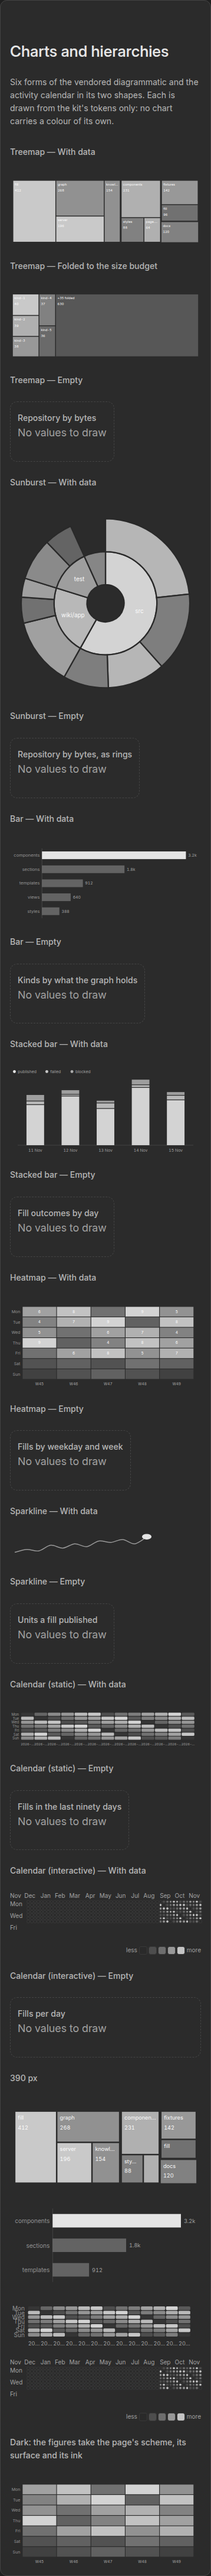
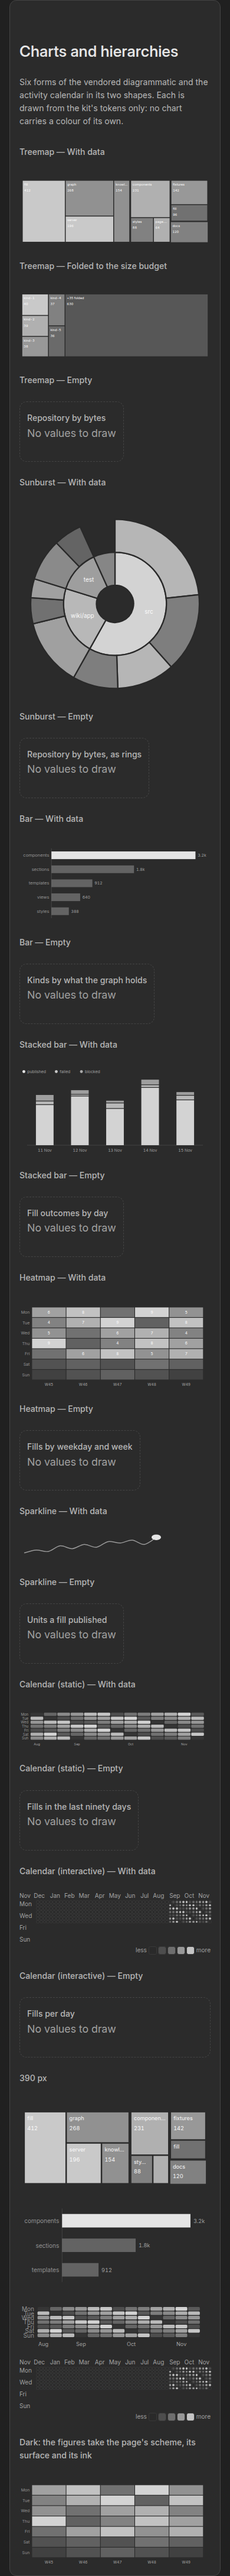
fix(kit): the calendar's months are short names, never cut
The static calendar printed the week's ISO date above each column, and a
column is about twenty pixels wide: every label was cut to «2026-…»
(madarch-64o5.82, item 1).

The matrix now names the month only on the column where the month turns, in
the reader's language, and reports it short: 'Aug' … in English, 'авг' … in
Russian. A name the narrowest column cannot hold at 11 px falls to its first
three letters, so no column is ever asked for more than it has; the weekdays
are the reader's too ('Mon' … / 'пн' …).

Checked on the rendered page in both languages and schemes at 1440 and 390:
no calendar text carries an ellipsis, and the labels read 'Mon Tue … Sun / Aug
Sep Oct Nov' and 'пн вт … вс / авг сен окт ноя'. The shots of the charts
section are retaken with the fix.

Task: madarch-64o5.82

diff --git a/wiki/app/src/components/ui/charts.tsx b/wiki/app/src/components/ui/charts.tsx
@@ -12,7 +12,9 @@
  * frame, so a page never decides what a figure without data looks like.
  */
 import type { ReactElement } from 'react';
+import { useTranslation } from 'react-i18next';
 import * as HeatGraph from 'heat-graph';
+import { textWidth } from '../../../../../vendor/diagrammatic/src/core/text.js';
 import { Bar } from '../../../../../vendor/diagrammatic/src/react/charts/bar.js';
 import { Heatmap } from '../../../../../vendor/diagrammatic/src/react/charts/heatmap.js';
 import { Sparkline } from '../../../../../vendor/diagrammatic/src/react/charts/sparkline.js';
@@ -89,7 +91,10 @@ export function ChartSparkline({ title, values, note = 'No values to draw', ...s
  * reacts to a pointer; the interactive calendar is `ActivityCalendar`.
  */
 export function ChartCalendar({ title, days, note = 'No activity to draw', ...size }: Size & { readonly title: string; readonly days: readonly ChartDay[]; readonly note?: string }): ReactElement {
-  const matrix = calendarMatrix(days);
+  // The month names are the reader's, from the page's language: a week column that starts a month carries that
+  // month's short name and the others carry none, so no column is asked to hold more than it can.
+  const { i18n } = useTranslation();
+  const matrix = calendarMatrix(days, i18n.language);
   if (matrix === undefined) return <ChartEmpty title={title} note={note} />;
   return <Heatmap title={title} matrix={matrix} mark="calendar" values={false} {...size} />;
 }
@@ -104,7 +109,10 @@ export function ChartCalendar({ title, days, note = 'No activity to draw', ...si
  * beside the picture draws them itself (`ChartHeatmap`, or a table).
  */
 export function ActivityCalendar({ title, days, note = 'No activity to draw' }: { readonly title: string; readonly days: readonly ChartDay[]; readonly note?: string }): ReactElement {
+  const { i18n } = useTranslation();
   if (days.length === 0) return <ChartEmpty title={title} note={note} />;
+  // Monday, Wednesday and Friday name the rows; the rest would crowd a phone's calendar.
+  const dayNames = [0, 1, 2, 3, 4, 5, 6].map((day) => (day % 2 === 0 ? weekdayShort(day, i18n.language) : ''));
   const total = days.reduce((sum, day) => sum + day.count, 0);
   const dates = [...days.map((day) => day.date.slice(0, 10))].sort();
   return <div className="max-w-2xl" data-testid="activity-calendar" role="img" aria-label={`${title}: ${String(total)} in ${String(days.length)} days, ${dates[0] ?? ''} to ${dates[dates.length - 1] ?? ''}`}>
@@ -116,7 +124,7 @@ export function ActivityCalendar({ title, days, note = 'No activity to draw' }: 
       </div>
       <div className="flex items-start gap-1.5">
         <div className="grid pr-0.5 text-[10px] leading-none text-muted" aria-hidden="true" style={{ gridTemplateRows: 'repeat(7, minmax(0, 1fr))' }}>
-          {WEEKDAYS.map((name, row) => <span key={name || String(row)} className="grid items-center" style={{ gridRow: row + 1 }}>{name}</span>)}
+          {dayNames.map((name, row) => <span key={name || String(row)} className="grid items-center" style={{ gridRow: row + 1 }}>{name}</span>)}
         </div>
         <HeatGraph.Grid className="min-w-0 flex-1 gap-[2px]" aria-hidden="true">
           {() => <HeatGraph.Cell className="aspect-square rounded-[2px] outline outline-1 outline-[var(--border-subtle)]" />}
@@ -133,7 +141,10 @@ export function ActivityCalendar({ title, days, note = 'No activity to draw' }: 
 
 /** The five steps a calendar cell takes: the page's soft surface, then four strengths of one ink. */
 const HEAT_STEPS = ['var(--surface-soft)', 'var(--heat-step-1)', 'var(--heat-step-2)', 'var(--heat-step-3)', 'var(--heat-step-4)'];
-const WEEKDAYS = ['Mon', '', 'Wed', '', 'Fri', '', ''];
+/** A weekday's short name in the reader's language; Monday is day 0, and 2026-01-05 was a Monday. */
+function weekdayShort(day: number, language: string): string {
+  return new Intl.DateTimeFormat(language, { weekday: 'short', timeZone: 'UTC' }).format(new Date(Date.UTC(2026, 0, 5 + day)));
+}
 const MONTHS = ['Jan', 'Feb', 'Mar', 'Apr', 'May', 'Jun', 'Jul', 'Aug', 'Sep', 'Oct', 'Nov', 'Dec'];
 
 /** A node as the vendored forms read one: a label, the value it holds, and its children. */
@@ -154,10 +165,21 @@ function hasValues(nodes: readonly ChartNode[]): boolean {
 }
 
 /**
- * Dated counts as the calendar mark's matrix: one row per weekday, one column
- * per week, Monday first. Undefined when no day carries a count.
+ * The short name of a month in a language, never cut by the figure: a name the
+ * narrowest column cannot hold at 11 px (a phone's width, thirteen weeks) falls
+ * to its first three letters, which every interface language writes distinctly.
  */
-export function calendarMatrix(days: readonly ChartDay[]): { rows: string[]; cols: string[]; values: number[][] } | undefined {
+export function shortMonth(month: number, language: string): string {
+  const name = new Intl.DateTimeFormat(language, { month: 'short', timeZone: 'UTC' }).format(new Date(Date.UTC(2026, month, 1))).replace(/\.$/u, '');
+  return textWidth(name, 11) > 21 && name.length > 3 ? name.slice(0, 3) : name;
+}
+
+/**
+ * Dated counts as the calendar mark's matrix: one row per weekday, one column
+ * per week, Monday first, and the month's short name on the column where the
+ * month turns. Undefined when no day carries a count.
+ */
+export function calendarMatrix(days: readonly ChartDay[], language = 'en'): { rows: string[]; cols: string[]; values: number[][] } | undefined {
   if (!days.some((day) => day.count > 0)) return undefined;
   const byDate = new Map<string, number>();
   for (const day of days) byDate.set(day.date.slice(0, 10), day.count);
@@ -170,12 +192,17 @@ export function calendarMatrix(days: readonly ChartDay[]): { rows: string[]; col
   const end = new Date(last); end.setUTCDate(end.getUTCDate() - ((end.getUTCDay() + 6) % 7));
   const values: number[][] = [[], [], [], [], [], [], []];
   const cols: string[] = [];
+  let monthOfLast = -1;
   for (const cursor = new Date(start); cursor <= end; cursor.setUTCDate(cursor.getUTCDate() + 7)) {
-    cols.push(cursor.toISOString().slice(0, 10));
+    // The week that holds the month's first day names it; the label is centred over the column, so a month that turns
+    // inside a week takes the column as close to its start as the grid allows.
+    const month = cursor.getUTCMonth();
+    cols.push(month === monthOfLast ? '' : shortMonth(month, language));
+    monthOfLast = month;
     for (let row = 0; row < 7; row += 1) {
       const day = new Date(cursor); day.setUTCDate(day.getUTCDate() + row);
       values[row]!.push(byDate.get(day.toISOString().slice(0, 10)) ?? 0);
     }
   }
-  return { rows: ['Mon', 'Tue', 'Wed', 'Thu', 'Fri', 'Sat', 'Sun'], cols, values };
+  return { rows: [0, 1, 2, 3, 4, 5, 6].map((day) => weekdayShort(day, language)), cols, values };
 }
